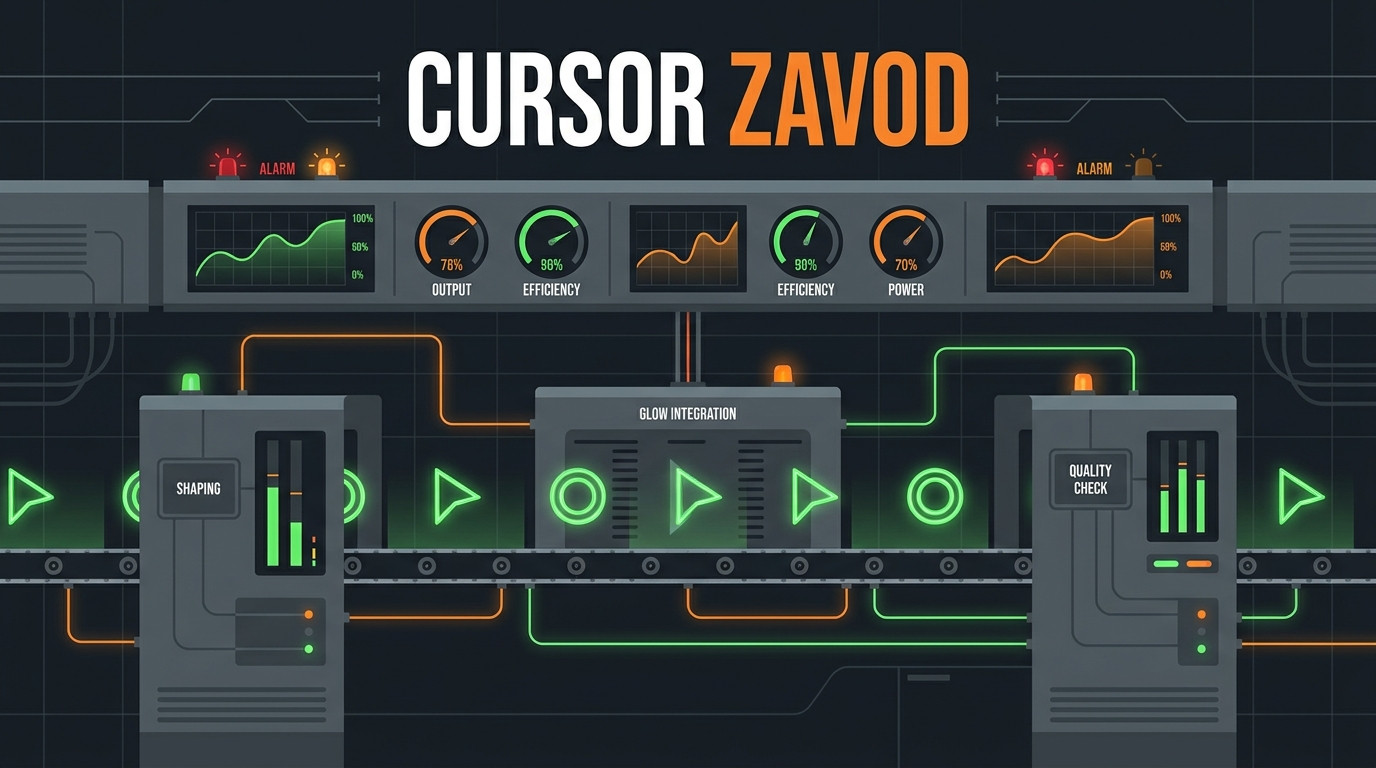
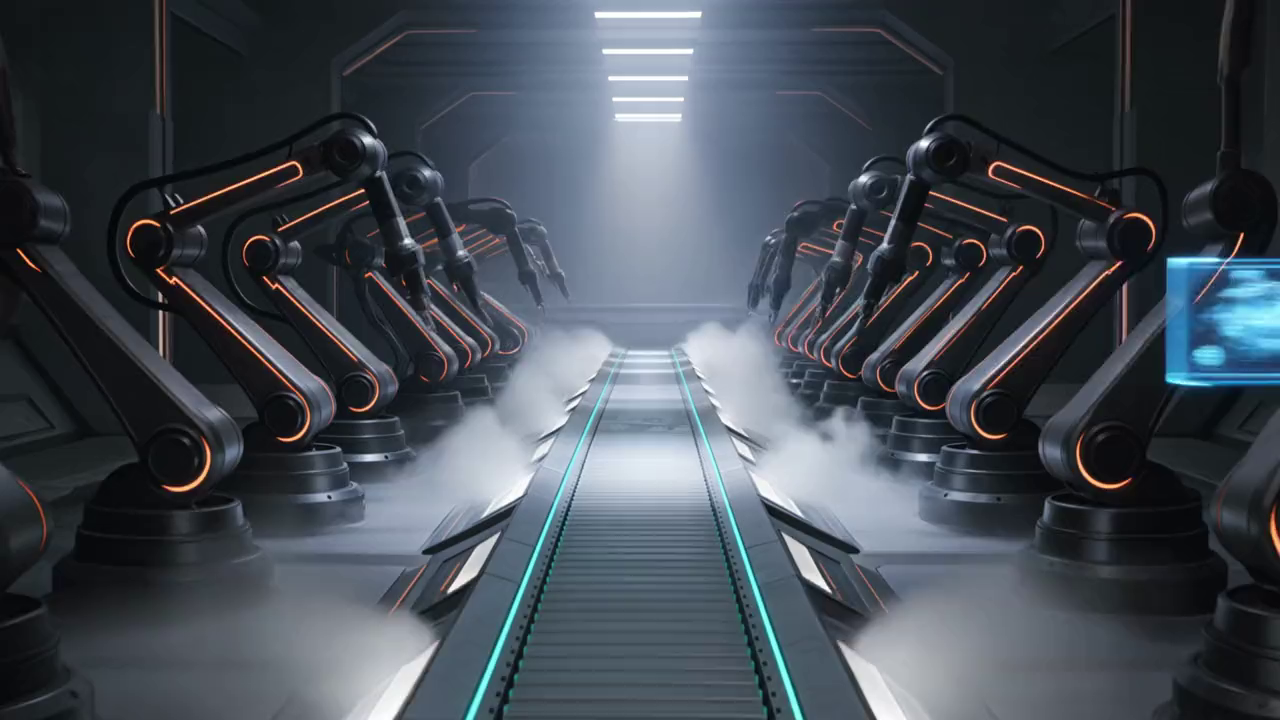
feat: v1.7.3 — hero-видео v3: экшн ультра-футуристичного завода роботов
kling3_0 pro 10s text-to-video (без постера-якоря — полная свобода движения):
тоннель роботов-манипуляторов собирает загадочный девайс, лазерная сварка,
снопы искр, голограммы, пар, камера едет вдоль линии. Звук фабрики.
Сжато до 2.4 МБ (720p CRF26), постер из первого кадра.

diff --git a/portal/src/version.ts b/portal/src/version.ts
@@ -1,5 +1,5 @@
 /** Единый номер версии портала/завода. Меняется вместе с CHANGELOG.md. */
-export const VERSION = '1.7.2'
+export const VERSION = '1.7.3'
 
 /** Строки анонса — вылетают «из взрывов» при первом открытии новой версии. */
 export const RELEASE_NOTES: string[] = [